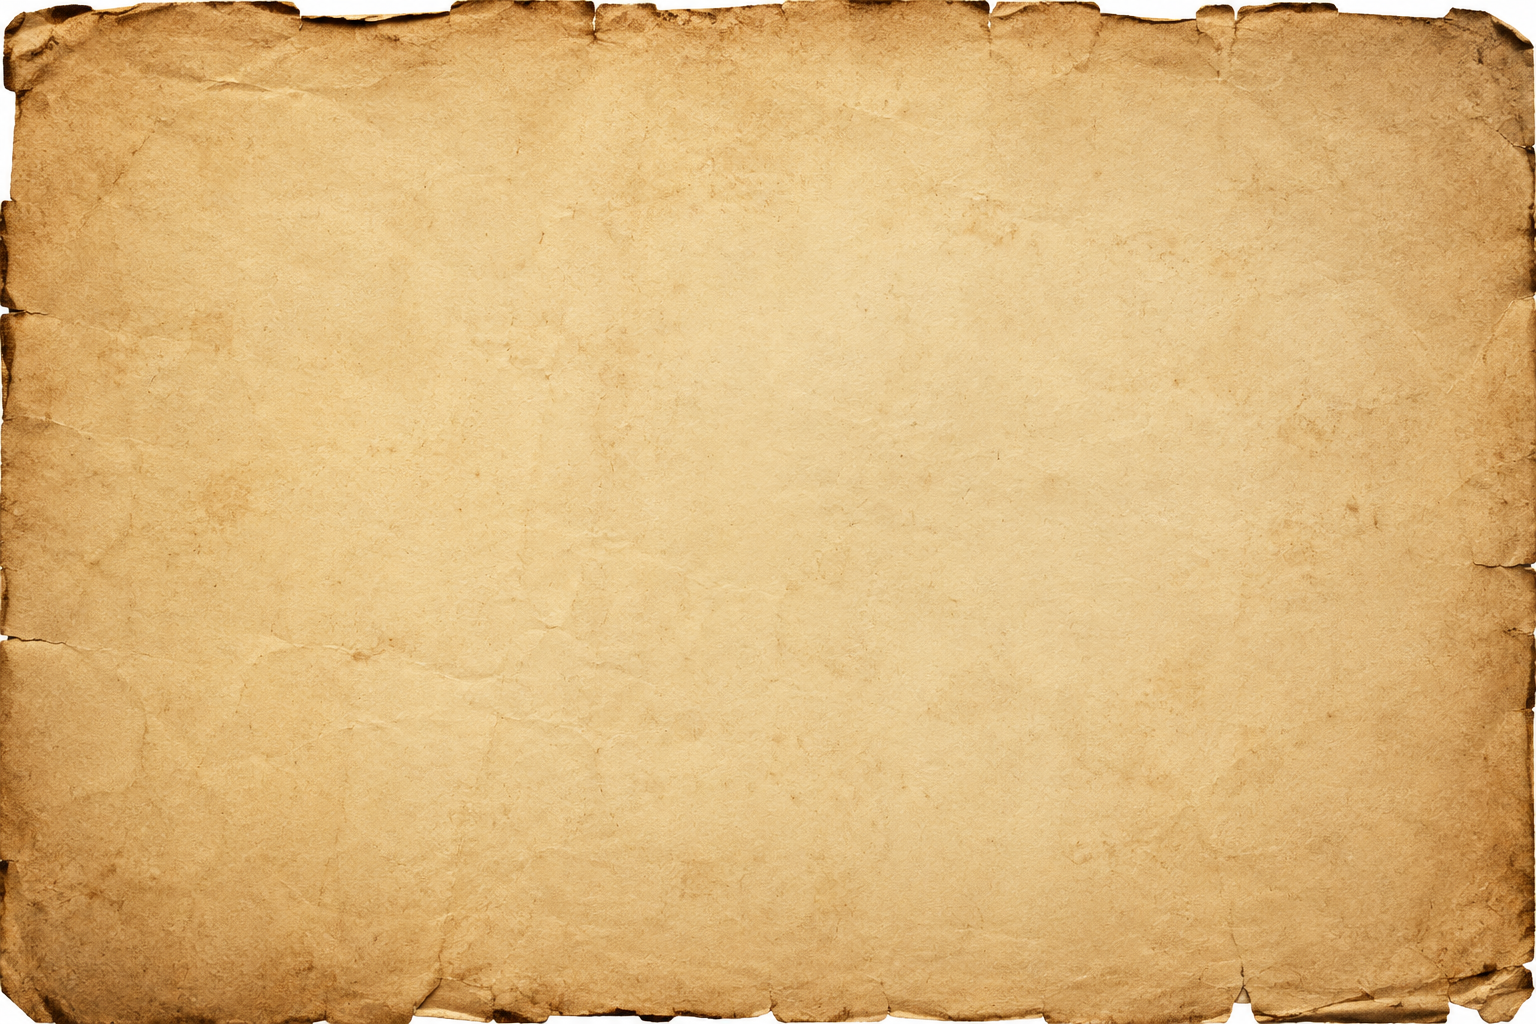
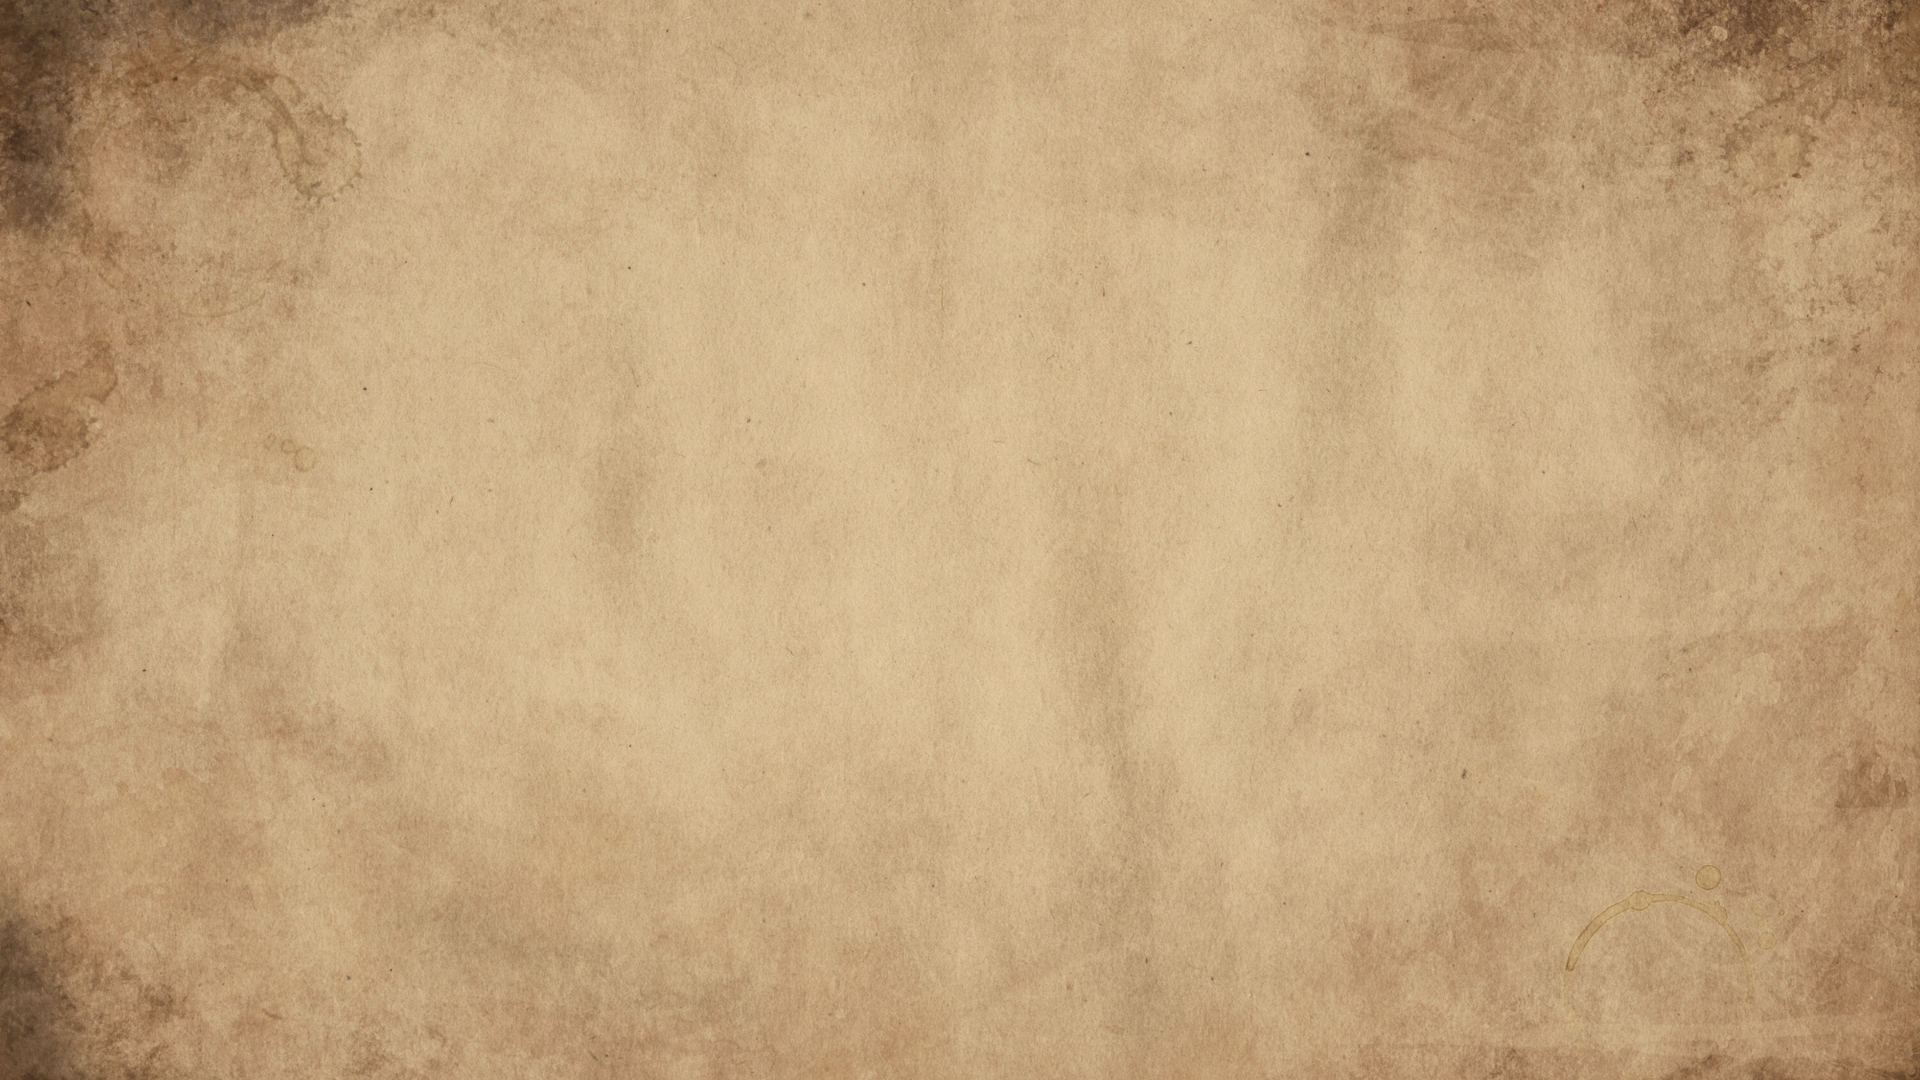
beda

diff --git a/beda.md b/beda.md
@@ -23,7 +23,7 @@ body{
     justify-content:center;
     align-items:center;
     height:100vh;
-    background:url("/assets/beda/background.jpg");
+    background:url("../assets/beda/background.png");
     color:white;
     text-align:center;
 }
